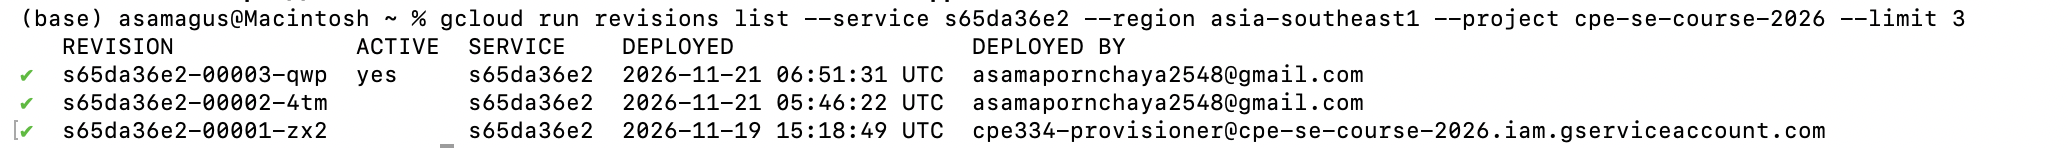
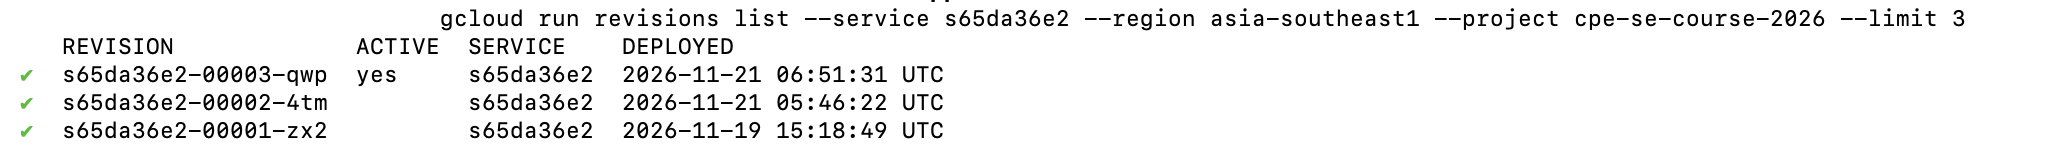
docs(lab5): redact personal info from evidence 25 and fix wording
Claude-Session: https://claude.ai/code/session_01MVoW51AxB3cxfic1dcvGo7

diff --git a/docs/labs/lab-05/deployment.md b/docs/labs/lab-05/deployment.md
@@ -296,7 +296,8 @@ errors.
 
 ### Login
 
-Logged in as the seeded manager account on the live service.
+Login page of the live service (URL visible in the address bar). The
+logged-in state is shown in evidence/26.
 
 [first deploy: login page](evidence/24-first-deploy-login-page.png)
 
@@ -310,7 +311,8 @@ Logged in as the seeded manager account on the live service.
      --update-env-vars PERSISTENCE_TEST=1
    ```
    — a no-op env var, purely to make Cloud Run create and switch traffic to
-   a brand new container instance.
+   a brand new container instance. `PERSISTENCE_TEST=1` was a temporary env
+   var used only to force a new revision; it was removed afterwards.
    [new revision serving traffic](evidence/25-first-deploy-new-revision.png)
 3. Once that new revision was serving 100% of traffic, the **same browser
    session** (no new login) was still authenticated, and the "Persistence
